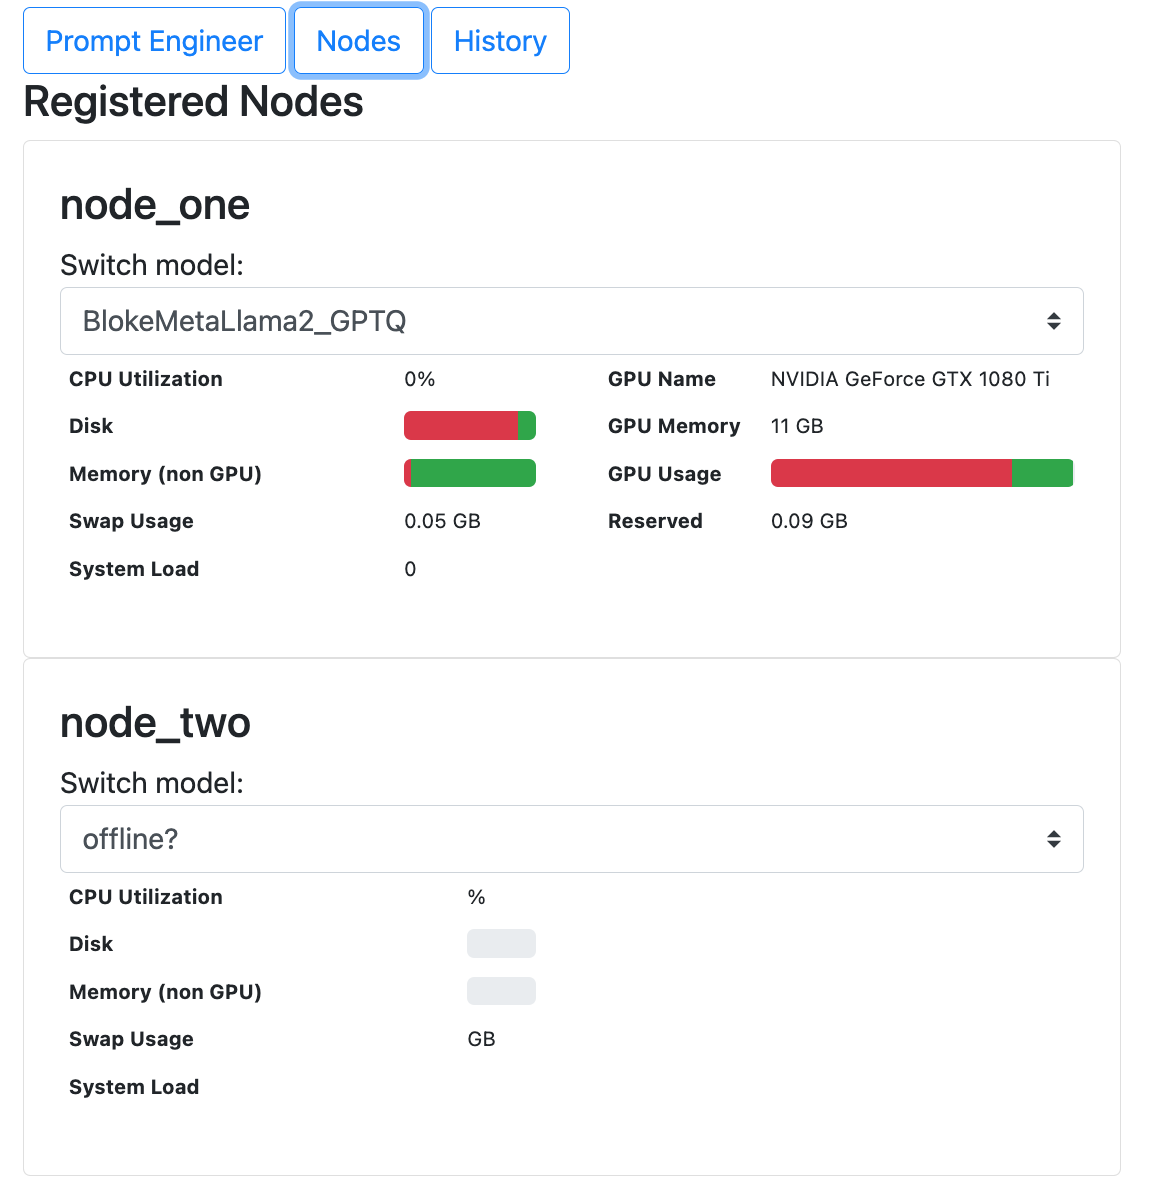
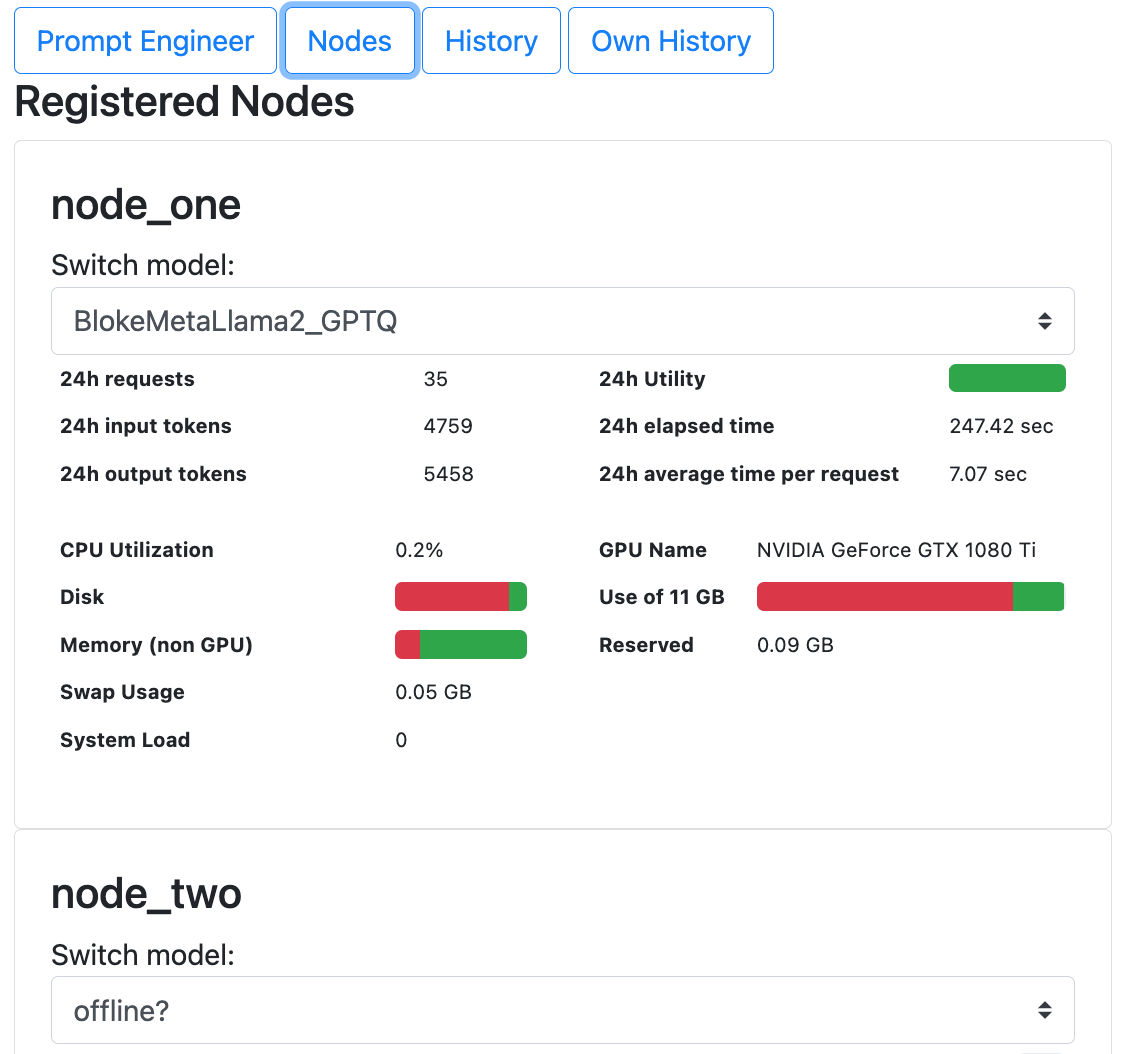
updating readme

diff --git a/README.md b/README.md
@@ -1,39 +1,42 @@
 # Herding Llamas
 
 A scalable API framework for orchestrating prompt-engineered solutions involving Large Language Models (LLMs), aiming to lower the entry hurdle for experimentation across teams while cutting time and complexity involved in launching (and integrating) a new idea.
+
 # Introduction
 ## Vision
-- Build your own farm of multiple **Large Language Models** *(LLM)*
+- Build and orchestrate your own pool **Large Language Models** *(LLM)*
 - Off-the-shelf (e.g., [hf.co](https://huggingface.co/spaces/HuggingFaceH4/open_llm_leaderboard)) or fine-tuned to your needs
-- Hot-swap backend models (*planned: automatic swith based on observed demand*)
-- **Build and manage your repository of** model-specific **prompts** *(e.g., natural language, code understanding)* and **chains**
-- Serve everything through **one single API**
-- **Monitor, channel and prioritize** *(or limit)* **use** (per consuming app or user/role based)
+- Register and hot-swap new backend models (typially a GPU-powered computation instance running a LLM)
+- **Develop and manage your repository of** model-specific **prompts** *(e.g., natural language, code understanding)* and **chains**
+- Serve everything through **one central REST API** (*and hand out access tokens to users/applications*)
+- **Monitor and and channel utilization**
+- Define limits per consuming app or user/role
 - **Scale!**
 
 ## Motivation
 With better generations of open source LLMs becoming available for personal and commercial use at the current pace, organizations and even private persons start to recognize them as an alternative or extension to products like ChatGPT and Bard. 
 
-But it is increasingly challenging to bridge between experimentation and application, between prompt engineering and system integration. 
+But it is increasingly challenging to bridge between experimentation and application. New ideas want to be tested immediately and promising candidates launched to a dedicated group of users to collect feedback, or even run A/B tests.
 
 Developing siloed solutions for a growing portfolio of use cases will lead to missed opportunities and unnecessary cost (by re-inventing the wheel and under-utilizing resources - namely GPU time).
 
-**Herding-Llamas** is a dynamic and versatile framework designed to serve as the core platform for innovation initiatives intending to utilize open-source LLMs. By offering a single, unified API for prompt engineering and integration into existing applications (or direclty serving a tailored web-UI around its API), Herding-Llamas significantly reduces time and complexity involved in launching a new idea or experimenting with rapidly evolving LLM generations.
+**Herding-Llamas** is a dynamic and versatile framework designed to serve as the core platform for innovation initiatives intending to utilize open-source LLMs. By offering a single, unified REST API for prompt engineering and integration into existing applications (or direclty serving a tailored web-app around its API), Herding-Llamas significantly reduces time and complexity involved in launching a new idea or experimenting with rapidly evolving LLM generations.
 
-With the ability to map prompts directly to your intended audience, whether this is a specific application or user group, and hand out access tokens alongside the API entry point, Herding-Llamas makes it remarkably easy to commence feedback collection.
+With the ability to map prompts directly to your intended audience, whether this is a specific application or user group, and hand out access tokens alongside the API entry point, Herding-Llamas makes it remarkably easy to collect feedback.
 
 # Features
 
 ## Prompt engineering
-Admin interface to test and develop new prompts
+Engineer interface to test and develop new prompts.
+
+New prompts are immediately available through the same API, and can be mapped to user groups (e.g., test / production, or teams/applications with bespoke requirements)
 
 <img src="./doc/prompt_engineer_tab.png" width="50%">
-
 
 *Coming soon: Overwrite default parameters like temperature (measure of creativity), custom stop-words etc.*
 
 ## Llama nodes 
-Monitor the health of all your registered Llama nodes and dynamically switch the loaded model.
+Monitor the utilization and health of all your registered Llama nodes and dynamically switch the loaded model.
 
 <img src="./doc/nodes_tab.png" width="50%">
 
@@ -45,6 +48,71 @@ See a history of recent prompts incl. statistics (user waiting time, number of t
 <img src="./doc/history_tab.png" width="75%">
 
 *Coming soon: Users can opt-out on keeping a history of their prompt content.*
+
+## Token based access
+Hand out access-tokens to every user (-group) or application. The same token can be used for API requests or direclty in the web UI for experimentation / prompt engineering.
+
+This allows you to restrict access to your resources per user group / role, and is applied on various levels of the framework:
+
+|Access to|Description|
+|---|---|
+|Llamas|Steers to which [Llamas](./herding_llamas/herder/llamas.yml) (registered LLM backends) the requests from a group of users can be sent to. Typically used to protect instances from a user group running (and paying the bill for) their own backend, and expect exclusive use. |
+|API Paths|Steers access to [API entry points](./herding_llamas/herder/app.py). E.g., to protect administrative activities|
+|Prompts|Limits access to [prompts](./herding_llamas/herder/prompts.yml). This can be used to reduce complexity for the user groups (they only see prompts engineerd by/for them), and allows to set up a prompt lifecycle (dev/test/prod prompts only exposed to the respective group)|
+|User interface|The user interface is organized in tabs. This hides admininstrative tabs to other users. Please note that this is only to simplify the user interface. Security is handled on the API level and also applies users bypass the UI.|
+
+The access levels are defined in [roles.yml](./herding_llamas/herder/roles.yml). User tokens are assigned to such a role.
+
+Example setting for a typical group of users who engineer their own prompts and use the API for inference.
+
+```yaml
+user_group_A:
+  allow_nodes: # Decides to which Llama nodes requests from group A can be sent to.
+    - node_one
+  allow_api_paths:
+    - /api/v1/infer
+    - /api/v1/prompts
+    - /api/v1/score
+    - /api/v1/feedback
+  allow_prompts:
+    - llama_2_keep_it_short
+    - llama_2_plain_vanilla
+  allow_tabs:
+    - Prompts
+    - OwnHistory
+
+```
+
+
+## Limit usage 
+
+Computational backend nodes running a large langauge model ("Llamas") are typically a scarce and expensive resource. 
+Unlimited (although identified) access can lead to poor response times for all due to over-use of a few. 
+
+By design, all Llama nodes are protected from direct access. This means that even if the address of a Llama node is known, all requests sent directly (bypassing the central API) will be rejected. 
+
+Herding-llamas keeps track of all requests, incl. statistics like input/output tokens (*"tokens" in the context of large language models refer to chunks of text that the model reads or creates*) and GPU utilization time per user, Llama node and prompt.
+
+This allows to impose limits to individual users or applications. Limits can be applied on two metric:
+- requests (count of performed inferences)
+- tokens (sum of input/output tokens)
+
+Example of a multi-level limitation, applied to one API consumer:
+
+```yaml
+limit: 
+  - type: request # max 20 requests per hour
+    interval: 1 # hours
+    limit: 20 # count
+  - type: request # max 100 requests per day
+    interval: 24
+    limit: 100
+  - type: token # max 6000 tokens (in+out) per hour
+    interval: 1 # hours
+    limit: 6000 # sum of tokens
+
+```
+
 
 ## API exploration
 Interactive exploration, call and test your API directly from the browser
